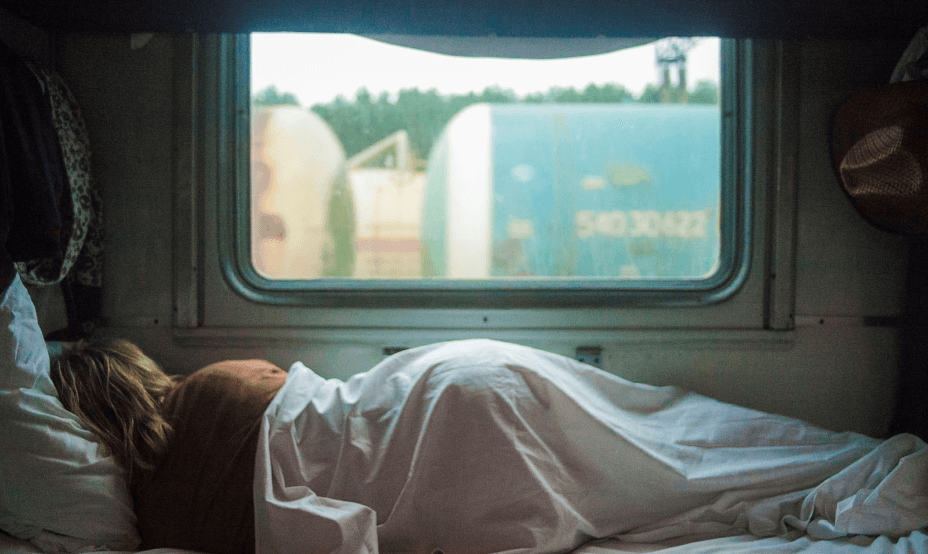
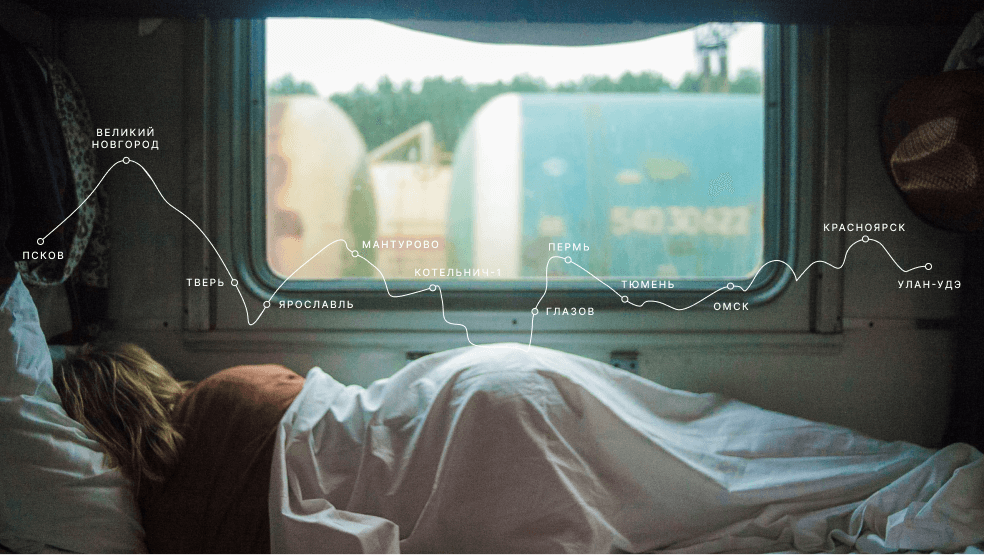
debag/lead-image

diff --git a/blocks/lead/__image/lead__image.css b/blocks/lead/__image/lead__image.css
@@ -1,0 +1,60 @@
+.lead__image {
+  margin: 0;
+  margin-top: 72px; /* 72px */
+  width: 100%;
+  height: 554px; /*554*/
+}
+
+@media all and (min-width : 1264px) {
+  /* стили для больших настольных компьютеров и ноутбуков */
+  .lead__image {
+    margin-top: 78px;
+    height: 554.13px; /*для 554*/
+  }
+}
+
+/*=== 1024 ===*/
+
+@media all and (max-width : 884px) {
+  /* стили для планшета */
+  .lead__image {
+    height: 500px; /*500*/
+  }
+}
+
+@media all and (max-width : 784px) {
+  /* стили для планшета */
+  .lead__image {
+    margin-top: 78px;
+    height: 420px; /*420*/
+  }
+}
+
+@media all and (max-width : 664px) {
+  /* телефоны */
+  .lead__image {
+    height: 350px; /*350*/
+  }
+}
+
+@media all and (max-width : 564px) {
+  /* телефоны */
+  .lead__image {
+    height: 280px; /*280*/
+  }
+}
+
+@media all and (max-width : 464px) {
+  /* телефоны */
+  .lead__image {
+    margin-top: 31px; /* 31px */
+    height: 211px; /*211*/
+  }
+}
+
+@media all and (max-width : 336px) {
+  /* телефоны */
+  .lead__image {
+    margin-top: 32px; /* 32px */
+  }
+}

diff --git a/index.html b/index.html
@@ -21,10 +21,7 @@
             <section class="lead">
               <h1 class="lead__title">Путешествия по России</h1>
               <p class="lead__subtitle">Настоящая страна не в выпусках</p><p class="lead__subtitle">новостей, а здесь.</p>
-              <div class="lead__images">
-                <img src="./images/lead_image.png" alt="Вагон поезда" class="lead__image-bg">
-                <img src="./images/road_map.svg" alt="Карта путешествия" class="lead__image-roadmap">
-              </div>
+              <img src="./images/lead_image.png" alt="Карта путеществия" class="lead__image">
               <p class="lead__caption">ваша полка — верхняя</p>
             </section>
 

diff --git a/blocks/lead/lead.css b/blocks/lead/lead.css
@@ -1,8 +1,6 @@
 @import url(./__title/lead__title.css);
 @import url(./__subtitle/lead__subtitle.css);
-@import url(./__images/lead__images.css);
-@import url(./__image-bg/lead__image-bg.css);
-@import url(./__image-roadmap/lead__image-roadmap.css);
+@import url(./__image/lead__image.css);
 @import url(./__caption/lead__caption.css);
 
 .lead {
